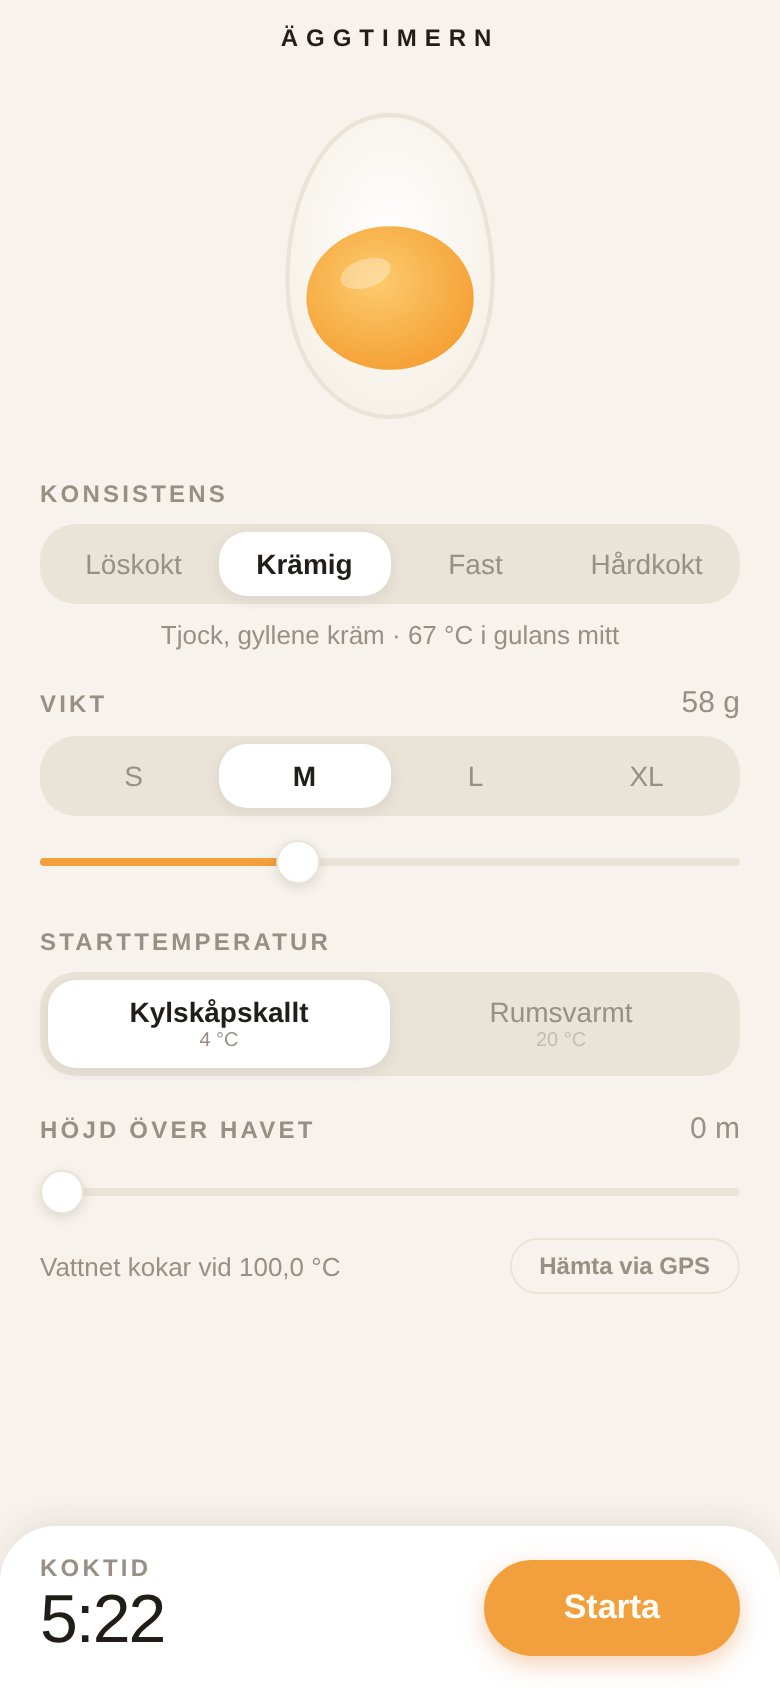
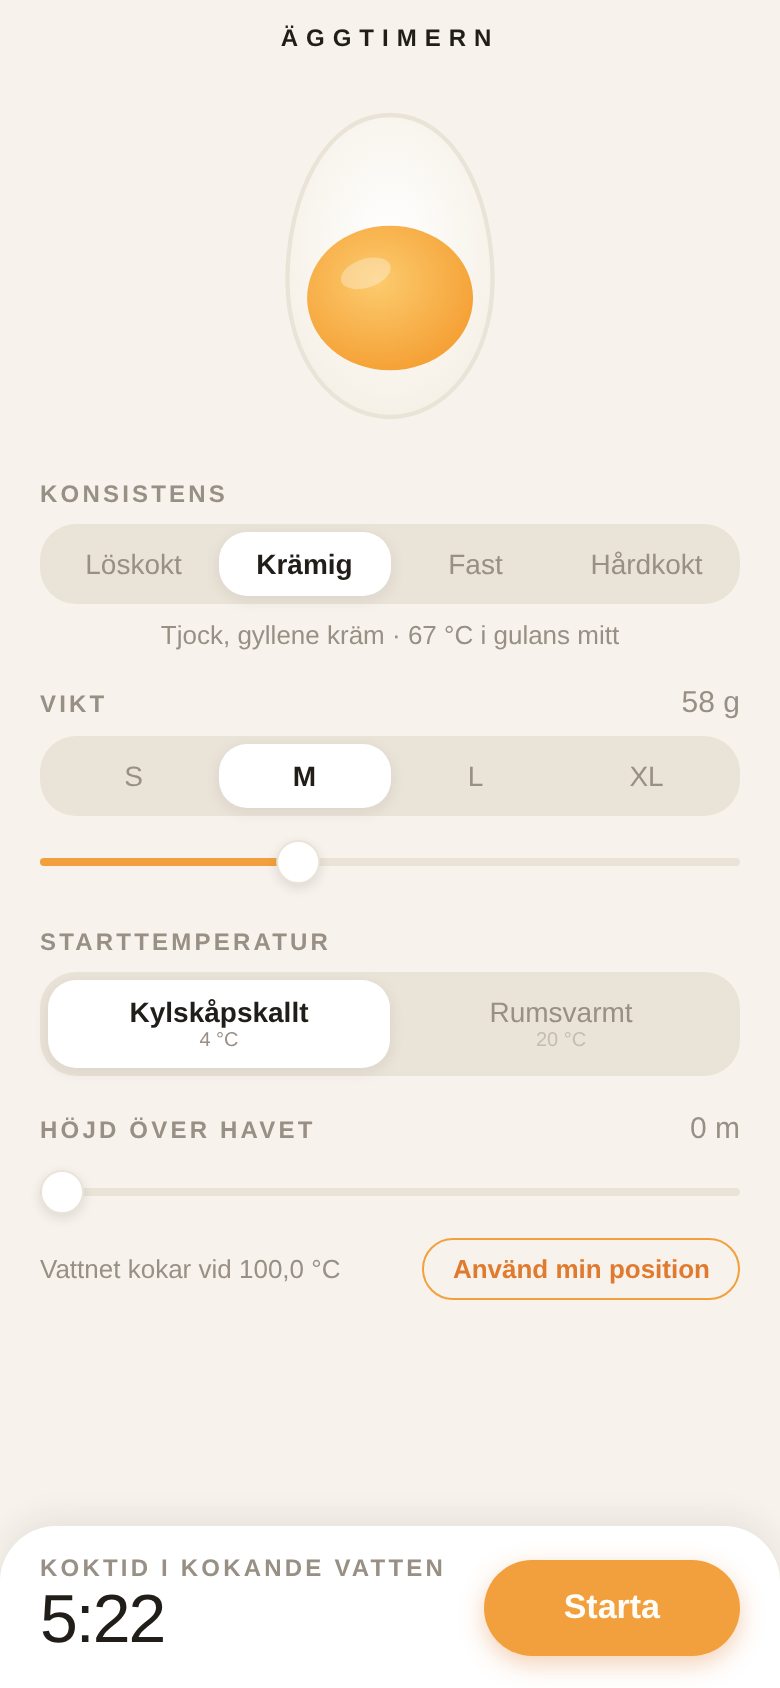
Tydligare GPS-knapp och instruktion om kokande vatten
GPS-knappen heter nu 'Använd min position' och har äggula-accent så den
syns, i både appen och webbversionen. Koktiden rubriceras 'Koktid i
kokande vatten' och timerskärmen instruerar att lägga i ägget när
nedräkningen startar.

Claude-Session: https://claude.ai/code/session_01EZYP92x6vBZfDbqiiMtHZW

diff --git a/web/index.html b/web/index.html
@@ -175,18 +175,24 @@
   }
   input[type='range']:focus-visible { outline: 2px solid var(--yolk); outline-offset: 2px; border-radius: 4px; }
 
-  .ghost-btn {
-    border: 1px solid var(--line);
+  .gps-btn {
+    display: inline-flex;
+    align-items: center;
+    gap: 6px;
+    border: 1.5px solid var(--yolk);
     background: none;
     border-radius: 999px;
-    padding: 6px 14px;
+    padding: 7px 14px;
     font: inherit;
-    font-size: 12px;
+    font-size: 13px;
     font-weight: 600;
-    color: var(--ink-soft);
+    color: var(--yolk-deep);
     cursor: pointer;
+    white-space: nowrap;
   }
-  .ghost-btn:focus-visible { outline: 2px solid var(--yolk); }
+  .gps-btn svg { flex: none; }
+  .gps-btn:active { background: rgba(242, 160, 61, 0.12); }
+  .gps-btn:focus-visible { outline: 2px solid var(--yolk); outline-offset: 2px; }
   .error { font-size: 13px; color: var(--danger); }
 
   /* Fot med koktid */
@@ -299,7 +305,8 @@
   #timer.done .badge { display: flex; }
 
   .big-time { font-size: 68px; font-weight: 200; letter-spacing: -2px; font-variant-numeric: tabular-nums; }
-  .timer-sub { font-size: 13px; color: var(--ink-soft); max-width: 300px; }
+  .timer-sub { font-size: 13px; color: var(--ink-soft); max-width: 300px; line-height: 1.5; }
+  .timer-sub strong { color: var(--ink); font-weight: 600; }
   .timer-label { font-size: 11px; font-weight: 600; letter-spacing: 1.6px; text-transform: uppercase; color: var(--ink-soft); }
   .cancel-btn {
     border: 1px solid var(--ink-faint);
@@ -377,7 +384,13 @@
       <input type="range" id="alt" min="0" max="4500" step="50" value="0" aria-label="Höjd över havet i meter" />
       <div class="row">
         <div class="hint" id="boil-out" style="text-align:left"></div>
-        <button class="ghost-btn" id="gps">Hämta via GPS</button>
+        <button class="gps-btn" id="gps" type="button">
+          <svg width="13" height="13" viewBox="0 0 24 24" fill="none" stroke="currentColor" stroke-width="2.4" stroke-linecap="round" stroke-linejoin="round" aria-hidden="true">
+            <path d="M12 21s-7-5.5-7-11a7 7 0 1 1 14 0c0 5.5-7 11-7 11Z" />
+            <circle cx="12" cy="10" r="2.6" />
+          </svg>
+          <span id="gps-label">Använd min position</span>
+        </button>
       </div>
       <div class="error" id="gps-err" hidden></div>
     </div>
@@ -385,7 +398,7 @@
 
   <div class="footer">
     <div id="footer-ok">
-      <div class="label">Koktid</div>
+      <div class="label">Koktid i kokande vatten</div>
       <time id="time-out">5:22</time>
     </div>
     <div class="warning" id="footer-warn" hidden></div>
@@ -513,16 +526,16 @@
   $('gps').addEventListener('click', () => {
     $('gps-err').hidden = true;
     if (!navigator.geolocation) return showGpsErr('Ingen platstjänst i den här webbläsaren — dra i reglaget i stället.');
-    $('gps').textContent = 'Hämtar…';
+    $('gps-label').textContent = 'Hämtar…';
     navigator.geolocation.getCurrentPosition(
       (pos) => {
-        $('gps').textContent = 'Hämta via GPS';
+        $('gps-label').textContent = 'Använd min position';
         if (pos.coords.altitude == null) return showGpsErr('Ingen höjddata från GPS:en — dra i reglaget i stället.');
         state.alt = Math.min(4500, Math.max(0, Math.round(pos.coords.altitude / 10) * 10));
         $('alt').value = state.alt;
         render();
       },
-      () => { $('gps').textContent = 'Hämta via GPS'; showGpsErr('Kunde inte hämta position — dra i reglaget i stället.'); },
+      () => { $('gps-label').textContent = 'Använd min position'; showGpsErr('Kunde inte hämta position — dra i reglaget i stället.'); },
       { timeout: 8000 }
     );
   });
@@ -572,7 +585,7 @@
     if (!seconds) return;
     total = seconds;
     endAt = Date.now() + seconds * 1000;
-    $('timer-sub').textContent = `${d.label} · ${state.grams} g · ${t.label.toLowerCase()} · vattnet kokar vid ${sv(waterC)} °C`;
+    $('timer-sub').innerHTML = `<strong>Lägg ägget i det kokande vattnet nu.</strong><br>${d.label} · ${state.grams} g · ${t.label.toLowerCase()} · vattnet kokar vid ${sv(waterC)} °C`;
     $('timer').classList.remove('done');
     $('timer-label').textContent = 'Kokar';
     $('cancel').textContent = 'Avbryt';

diff --git a/App.tsx b/App.tsx
@@ -148,9 +148,9 @@ export default function App() {
             </Text>
             <Pressable style={styles.gpsButton} onPress={useGps} disabled={locating}>
               {locating ? (
-                <ActivityIndicator size="small" color={colors.inkSoft} />
+                <ActivityIndicator size="small" color={colors.yolkDeep} />
               ) : (
-                <Text style={styles.gpsText}>Hämta via GPS</Text>
+                <Text style={styles.gpsText}>Använd min position</Text>
               )}
             </Pressable>
           </View>
@@ -167,7 +167,7 @@ export default function App() {
         ) : (
           <>
             <View>
-              <Text style={font.label}>Koktid</Text>
+              <Text style={font.label}>Koktid i kokande vatten</Text>
               <Text style={styles.footerTime}>{formatTime(result.seconds)}</Text>
             </View>
             <Pressable
@@ -206,15 +206,15 @@ const styles = StyleSheet.create({
   hint: { ...font.caption, textAlign: 'center' },
   value: { ...font.body, fontVariant: ['tabular-nums'], color: colors.inkSoft },
   gpsButton: {
-    borderWidth: 1,
-    borderColor: colors.line,
+    borderWidth: 1.5,
+    borderColor: colors.yolk,
     borderRadius: radius.pill,
-    paddingVertical: 6,
+    paddingVertical: 7,
     paddingHorizontal: 14,
     minWidth: 110,
     alignItems: 'center',
   },
-  gpsText: { fontSize: 12, fontWeight: '600', color: colors.inkSoft },
+  gpsText: { fontSize: 13, fontWeight: '600', color: colors.yolkDeep },
   error: { ...font.caption, color: colors.danger },
   footer: {
     position: 'absolute',

diff --git a/src/components/TimerScreen.tsx b/src/components/TimerScreen.tsx
@@ -106,6 +106,7 @@ export function TimerScreen({ totalSeconds, summary, waterC, onClose }: Props) {
       ) : (
         <>
           <Text style={styles.time}>{formatTime(remaining)}</Text>
+          <Text style={styles.instruction}>Lägg ägget i det kokande vattnet nu.</Text>
           <Text style={styles.summary}>
             {summary} · vattnet kokar vid {waterC.toFixed(1).replace('.', ',')} °C
           </Text>
@@ -329,7 +330,8 @@ const styles = StyleSheet.create({
     justifyContent: 'center',
   },
   time: { ...font.timer, marginTop: space.s },
-  summary: { ...font.caption, textAlign: 'center', maxWidth: 280 },
+  instruction: { ...font.body, fontWeight: '600', textAlign: 'center' },
+  summary: { ...font.caption, textAlign: 'center', maxWidth: 280, marginTop: -space.s },
   button: {
     marginTop: space.m,
     paddingVertical: 16,
